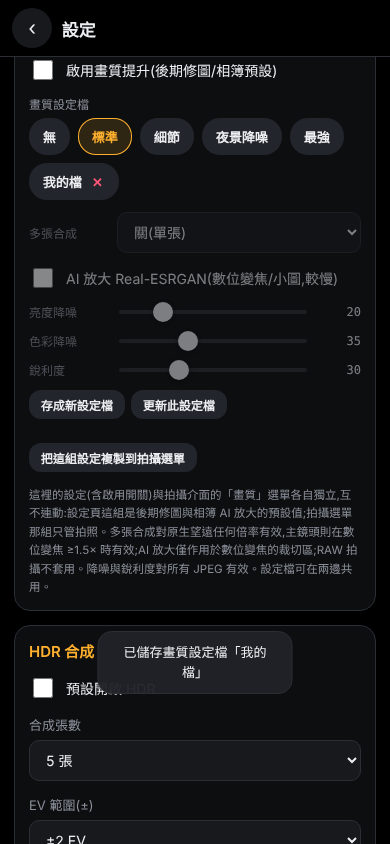
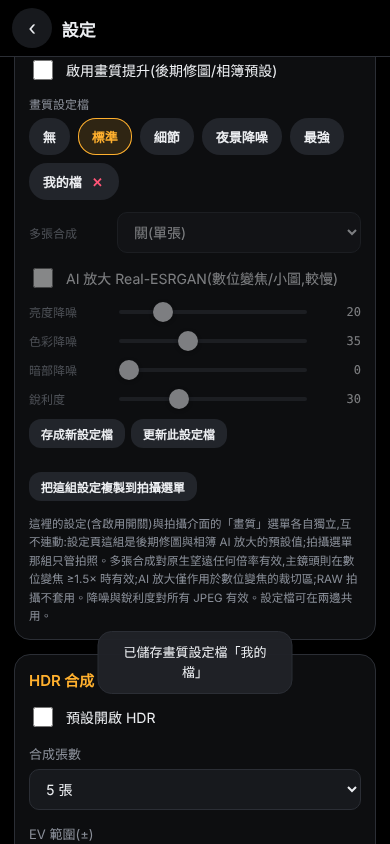
新增暗部降噪(亮度、色彩一起,只在暗部加強),夜景降噪設定檔套用
Claude-Session: https://claude.ai/code/session_016jd6xW3n2NEQN18hwjMf4T

diff --git a/www/js/enhance.js b/www/js/enhance.js
@@ -4,8 +4,8 @@
 const A = window.A;
 const $ = A.$;
 
-const KEYS = ['burst', 'nn', 'nnMix', 'dnL', 'dnC', 'sharp'];
-A.enhZero = () => ({ burst: 1, nn: false, nnMix: 40, dnL: 0, dnC: 0, sharp: 0 });
+const KEYS = ['burst', 'nn', 'nnMix', 'dnL', 'dnC', 'dnS', 'sharp'];
+A.enhZero = () => ({ burst: 1, nn: false, nnMix: 40, dnL: 0, dnC: 0, dnS: 0, sharp: 0 });
 A.cloneEnh = (e) => {
   const z = A.enhZero();
   const o = {};
@@ -17,7 +17,7 @@ A.ENH_BUILTIN = [
   { id: 'off', name: '無', builtin: true, enh: { burst: 1, nn: false, nnMix: 40, dnL: 0, dnC: 0, sharp: 0 } },
   { id: 'std', name: '標準', builtin: true, enh: { burst: 1, nn: false, nnMix: 40, dnL: 20, dnC: 35, sharp: 30 } },
   { id: 'detail', name: '細節', builtin: true, enh: { burst: 3, nn: false, nnMix: 40, dnL: 15, dnC: 35, sharp: 40 } },
-  { id: 'night', name: '夜景降噪', builtin: true, enh: { burst: 4, nn: false, nnMix: 40, dnL: 55, dnC: 70, sharp: 25 } },
+  { id: 'night', name: '夜景降噪', builtin: true, enh: { burst: 4, nn: false, nnMix: 40, dnL: 45, dnC: 70, dnS: 70, sharp: 25 } },
   { id: 'max', name: '最強', builtin: true, enh: { burst: 4, nn: true, nnMix: 40, dnL: 30, dnC: 50, sharp: 35 } },
 ];
 A.allEnhProfiles = () => A.ENH_BUILTIN.concat(A.settings.enhProfiles || []);
@@ -45,9 +45,9 @@ A.ensureEnhState();
 
 /** 實際生效的設定(未啟用 = 全部關閉) */
 A.enhEff = (s) => (s && s.on ? A.cloneEnh(s.enh) : A.enhZero());
-A.enhActive = (e) => e.burst > 1 || e.nn || e.dnL > 0 || e.dnC > 0 || e.sharp > 0;
+A.enhActive = (e) => e.burst > 1 || e.nn || e.dnL > 0 || e.dnC > 0 || e.dnS > 0 || e.sharp > 0;
 /** 轉成原生外掛參數 */
-A.enhArgs = (e) => ({ nn: !!e.nn, nnMix: e.nnMix / 100, dnLuma: e.dnL, dnChroma: e.dnC, sharpen: e.sharp });
+A.enhArgs = (e) => ({ nn: !!e.nn, nnMix: e.nnMix / 100, dnLuma: e.dnL, dnChroma: e.dnC, dnShadow: e.dnS, sharpen: e.sharp });
 A.enhSame = (a, b) => JSON.stringify(A.cloneEnh(a)) === JSON.stringify(A.cloneEnh(b));
 
 A.saveEnhProfile = (name, enh) => {
@@ -119,6 +119,7 @@ A.buildEnhPanel = (container, st, opts) => {
   }
   addSlider('dnL', '亮度降噪', 100);
   addSlider('dnC', '色彩降噪', 100);
+  addSlider('dnS', '暗部降噪', 100);
   addSlider('sharp', '銳利度', 100);
 
   const btns = document.createElement('div');
@@ -173,7 +174,7 @@ A.buildEnhPanel = (container, st, opts) => {
     onBox.checked = !!st.on;
     if (burstSel) burstSel.value = String(st.enh.burst);
     if (nnBox) { nnBox.checked = !!st.enh.nn; rows.nnMix.row.style.display = st.enh.nn ? 'flex' : 'none'; }
-    ['nnMix', 'dnL', 'dnC', 'sharp'].forEach((k) => {
+    ['nnMix', 'dnL', 'dnC', 'dnS', 'sharp'].forEach((k) => {
       const r = rows[k];
       if (!r) return;
       r.inp.value = st.enh[k];
@@ -221,9 +222,11 @@ A.initEnhUI = () => {
 /* ------------------------------------------------------------------ 預覽用降噪(修圖頁) */
 
 /** 與原生版相同概念的預覽實作:色彩低解析度模糊 + 亮度雙邊濾波。就地修改 RGBA data。 */
-A.denoiseRGBA = (data, w, h, luma, chroma) => {
+A.denoiseRGBA = (data, w, h, luma, chroma, shadow) => {
+  shadow = shadow || 0;
   const n = w * h;
-  if (chroma > 0) {
+  const dark = (y) => { const t = 1 - y / 96; return t <= 0 ? 0 : t * Math.sqrt(t); };
+  if (chroma > 0 || shadow > 0) {
     const cw = Math.ceil(w / 4), ch = Math.ceil(h / 4);
     let cb = new Float32Array(cw * ch), cr = new Float32Array(cw * ch);
     const cnt = new Float32Array(cw * ch);
@@ -235,7 +238,7 @@ A.denoiseRGBA = (data, w, h, luma, chroma) => {
       cnt[k]++;
     }
     for (let i = 0; i < cb.length; i++) { cb[i] /= cnt[i]; cr[i] /= cnt[i]; }
-    const rad = 1 + Math.round(chroma / 100 * 5);
+    const rad = 1 + Math.round(Math.max(chroma, shadow) / 100 * 5);
     const blur = (src) => {
       let t = new Float32Array(src.length), d = new Float32Array(src.length);
       for (let pass = 0; pass < 2; pass++) {
@@ -254,7 +257,7 @@ A.denoiseRGBA = (data, w, h, luma, chroma) => {
       return src;
     };
     cb = blur(cb); cr = blur(cr);
-    const a = Math.min(1, chroma / 100);
+    const a0 = Math.min(1, chroma / 100);
     for (let y = 0; y < h; y++) {
       const fy = A.clamp((y + 0.5) / 4 - 0.5, 0, ch - 1), y0 = fy | 0, y1 = Math.min(ch - 1, y0 + 1), wy = fy - y0;
       for (let x = 0; x < w; x++) {
@@ -264,6 +267,7 @@ A.denoiseRGBA = (data, w, h, luma, chroma) => {
         const r = data[j], g = data[j + 1], b = data[j + 2];
         const yy = 0.299 * r + 0.587 * g + 0.114 * b;
         const ocb = -0.168736 * r - 0.331264 * g + 0.5 * b, ocr = 0.5 * r - 0.418688 * g - 0.081312 * b;
+        const a = Math.min(1, a0 + shadow / 100 * dark(yy));
         const ncb = ocb + (s(cb) - ocb) * a, ncr = ocr + (s(cr) - ocr) * a;
         data[j] = A.clamp(Math.round(yy + 1.402 * ncr), 0, 255);
         data[j + 1] = A.clamp(Math.round(yy - 0.344136 * ncb - 0.714136 * ncr), 0, 255);
@@ -271,26 +275,32 @@ A.denoiseRGBA = (data, w, h, luma, chroma) => {
       }
     }
   }
-  if (luma > 0) {
+  if (luma > 0 || shadow > 0) {
     const yb0 = new Uint8Array(n);
     for (let i = 0, j = 0; i < n; i++, j += 4) yb0[i] = Math.round(0.299 * data[j] + 0.587 * data[j + 1] + 0.114 * data[j + 2]);
-    const R = n >= 6e6 ? 3 : 2, sigS = R === 3 ? 2.0 : 1.4, passes = luma > 55 ? 2 : 1;
+    const R = n >= 6e6 ? 3 : 2, sigS = R === 3 ? 2.0 : 1.4, passes = (luma + shadow) > 55 ? 2 : 1;
     const sw = [];
     for (let dy = -R; dy <= R; dy++) for (let dx = -R; dx <= R; dx++) sw.push(Math.exp(-(dx * dx + dy * dy) / (2 * sigS * sigS)));
     let cur = yb0;
     for (let pass = 0; pass < passes; pass++) {
-      const sigR = (5 + luma / 100 * 55) * (pass === 0 ? 1 : 0.7);
-      const lut = new Float32Array(256);
-      for (let d = 0; d < 256; d++) lut[d] = Math.exp(-(d * d) / (2 * sigR * sigR));
+      const pf = pass === 0 ? 1 : 0.7;
+      const lut = new Float32Array(256 * 256), skip = new Uint8Array(256);
+      for (let yv = 0; yv < 256; yv++) {
+        const eff = Math.min(100, luma + shadow * dark(yv));
+        skip[yv] = eff < 0.5 ? 1 : 0;
+        const sg = (5 + eff / 100 * 55) * pf;
+        for (let d = 0; d < 256; d++) lut[(yv << 8) + d] = Math.exp(-(d * d) / (2 * sg * sg));
+      }
       const dst = new Uint8Array(n);
       for (let y = 0; y < h; y++) for (let x = 0; x < w; x++) {
         const i = y * w + x, c0 = cur[i];
+        if (skip[c0]) { dst[i] = c0; continue; }
         let sum = 0, ws = 0, q = 0;
         for (let dy = -R; dy <= R; dy++) {
           const yy = Math.min(h - 1, Math.max(0, y + dy));
           for (let dx = -R; dx <= R; dx++, q++) {
             const xx = Math.min(w - 1, Math.max(0, x + dx)), v = cur[yy * w + xx];
-            const wt = sw[q] * lut[Math.abs(v - c0)];
+            const wt = sw[q] * lut[(c0 << 8) + Math.abs(v - c0)];
             sum += wt * v; ws += wt;
           }
         }

diff --git a/www/js/editor.js b/www/js/editor.js
@@ -57,8 +57,8 @@ const enhNow = () => A.enhEff(E.enhSt);
 /** 降噪後的底圖(有快取;參數變動時延遲重算,預覽為近似效果) */
 function dnBase() {
   const en = enhNow();
-  if (!(en.dnL > 0 || en.dnC > 0)) return E.base;
-  const key = en.dnL + '|' + en.dnC;
+  if (!(en.dnL > 0 || en.dnC > 0 || en.dnS > 0)) return E.base;
+  const key = en.dnL + '|' + en.dnC + '|' + en.dnS;
   if (E.dn && E.dnKey === key) return E.dn;
   return E.dn || E.base;
 }
@@ -67,11 +67,11 @@ function scheduleDn() {
   E.dnTimer = setTimeout(() => {
     if (!E.base) return;
     const en = enhNow();
-    if (en.dnL > 0 || en.dnC > 0) {
-      const key = en.dnL + '|' + en.dnC;
+    if (en.dnL > 0 || en.dnC > 0 || en.dnS > 0) {
+      const key = en.dnL + '|' + en.dnC + '|' + en.dnS;
       if (E.dnKey !== key) {
         const d = new ImageData(new Uint8ClampedArray(E.base.data), E.w, E.h);
-        A.denoiseRGBA(d.data, E.w, E.h, en.dnL, en.dnC);
+        A.denoiseRGBA(d.data, E.w, E.h, en.dnL, en.dnC, en.dnS);
         E.dn = d; E.dnKey = key;
       }
     }

diff --git a/android/app/src/main/java/com/kirishima/cameraapp/LookMath.java b/android/app/src/main/java/com/kirishima/cameraapp/LookMath.java
@@ -165,9 +165,18 @@ final class LookMath {
     }
 
     /** 降噪:luma/chroma 0..100。亮度用雙邊濾波(保邊),色彩用低解析度模糊後回填。 */
-    static void denoise(int[] px, int w, int h, float luma, float chroma) {
+    static void denoise(int[] px, int w, int h, float luma, float chroma) { denoise(px, w, h, luma, chroma, 0f); }
+
+    /** 暗部權重:亮度 <96 的區域才有,越暗越大(手機雜訊集中在暗部,且與訊號大小有關) */
+    static float darkness(float y) {
+        float t = 1f - y / 96f;
+        return t <= 0f ? 0f : t * (float) Math.sqrt(t);
+    }
+
+    /** shadow:額外針對暗部加強的降噪強度 0..100(亮度與色彩一起加強)。 */
+    static void denoise(int[] px, int w, int h, float luma, float chroma, final float shadow) {
         final int n = w * h;
-        if (chroma > 0f) {
+        if (chroma > 0f || shadow > 0f) {
             final int cw = (w + 3) / 4, ch = (h + 3) / 4;
             float[] cb = new float[cw * ch], cr = new float[cw * ch], cnt = new float[cw * ch];
             for (int y = 0; y < h; y++) {
@@ -182,7 +191,7 @@ final class LookMath {
                 }
             }
             for (int i = 0; i < cb.length; i++) { cb[i] /= cnt[i]; cr[i] /= cnt[i]; }
-            int rad = 1 + Math.round(chroma / 100f * 5f);
+            int rad = 1 + Math.round(Math.max(chroma, shadow) / 100f * 5f);
             float[] t = new float[cw * ch];
             double[] pre = new double[Math.max(cw, ch) + 1];
             float[] col = new float[cw];
@@ -190,7 +199,7 @@ final class LookMath {
                 boxH(cb, t, cw, ch, rad, pre); boxV(t, cb, cw, ch, rad, col);
                 boxH(cr, t, cw, ch, rad, pre); boxV(t, cr, cw, ch, rad, col);
             }
-            final float a = Math.min(1f, chroma / 100f);
+            final float a0 = Math.min(1f, chroma / 100f);
             final float[] fcb = cb, fcr = cr;
             final int fcw = cw, fch = ch;
             java.util.stream.IntStream.range(0, h).parallel().forEach(y -> {
@@ -210,6 +219,7 @@ final class LookMath {
                     float yy = 0.299f * r + 0.587f * g + 0.114f * b;
                     float ocb = -0.168736f * r - 0.331264f * g + 0.5f * b;
                     float ocr = 0.5f * r - 0.418688f * g - 0.081312f * b;
+                    float a = Math.min(1f, a0 + shadow / 100f * darkness(yy));
                     float ncb = ocb + (bcb - ocb) * a, ncr = ocr + (bcr - ocr) * a;
                     int nr = Math.min(255, Math.max(0, Math.round(yy + 1.402f * ncr)));
                     int ng = Math.min(255, Math.max(0, Math.round(yy - 0.344136f * ncb - 0.714136f * ncr)));
@@ -218,7 +228,7 @@ final class LookMath {
                 }
             });
         }
-        if (luma > 0f) {
+        if (luma > 0f || shadow > 0f) {
             final byte[] yb = new byte[n];
             for (int i = 0; i < n; i++) {
                 int c = px[i];
@@ -227,28 +237,35 @@ final class LookMath {
             // 手機雜訊多為數像素大的斑塊,需要較大視窗與較寬的亮度容忍度;強度高時做兩輪
             final int R = (long) n >= 6_000_000L ? 3 : 2;
             final float sigS = R == 3 ? 2.0f : 1.4f;
-            final int passes = luma > 55f ? 2 : 1;
+            final int passes = (luma + shadow) > 55f ? 2 : 1;
             final float[] sw = new float[(2 * R + 1) * (2 * R + 1)];
             for (int dy = -R; dy <= R; dy++) for (int dx = -R; dx <= R; dx++)
                 sw[(dy + R) * (2 * R + 1) + dx + R] = (float) Math.exp(-(dx * dx + dy * dy) / (2.0 * sigS * sigS));
             byte[] cur = yb;
             for (int pass = 0; pass < passes; pass++) {
                 final byte[] src = cur;
-                final float sigR = (5f + luma / 100f * 55f) * (pass == 0 ? 1f : 0.7f);
-                final float[] lut = new float[256];
-                for (int d = 0; d < 256; d++) lut[d] = (float) Math.exp(-(d * d) / (2.0 * sigR * sigR));
+                final float pf = pass == 0 ? 1f : 0.7f;
+                final float[] lut = new float[256 * 256];     // [中心亮度][亮度差];暗處的容忍度更大
+                final boolean[] skip = new boolean[256];
+                for (int yv = 0; yv < 256; yv++) {
+                    float eff = Math.min(100f, luma + shadow * darkness(yv));
+                    skip[yv] = eff < 0.5f;
+                    float sg = (5f + eff / 100f * 55f) * pf;
+                    for (int d = 0; d < 256; d++) lut[(yv << 8) + d] = (float) Math.exp(-(d * d) / (2.0 * sg * sg));
+                }
                 final byte[] dst = new byte[n];
                 java.util.stream.IntStream.range(0, h).parallel().forEach(y -> {
                     for (int x = 0; x < w; x++) {
                         int i = y * w + x;
                         int c0 = src[i] & 255;
+                        if (skip[c0]) { dst[i] = (byte) c0; continue; }
                         float sum = 0f, ws = 0f;
                         for (int dy = -R; dy <= R; dy++) {
                             int yy = Math.min(h - 1, Math.max(0, y + dy));
                             for (int dx = -R; dx <= R; dx++) {
                                 int xx = Math.min(w - 1, Math.max(0, x + dx));
                                 int v = src[yy * w + xx] & 255;
-                                float wt = sw[(dy + R) * (2 * R + 1) + dx + R] * lut[Math.abs(v - c0)];
+                                float wt = sw[(dy + R) * (2 * R + 1) + dx + R] * lut[(c0 << 8) + Math.abs(v - c0)];
                                 sum += wt * v;
                                 ws += wt;
                             }

diff --git a/android/app/src/main/java/com/kirishima/cameraapp/CameraToolsPlugin.java b/android/app/src/main/java/com/kirishima/cameraapp/CameraToolsPlugin.java
@@ -493,27 +493,28 @@ public class CameraToolsPlugin extends Plugin {
     private volatile boolean nnFlag;
     private volatile float nnMix = 0.4f;
     private int jobSeq = 0;
-    private volatile float dnLuma, dnChroma, sharpAmt;
+    private volatile float dnLuma, dnChroma, dnShadow, sharpAmt;
 
     private void readEnh(PluginCall call) {
         nnFlag = Boolean.TRUE.equals(call.getBoolean("nn", false));
         nnMix = Math.max(0f, Math.min(1f, call.getFloat("nnMix", 0.4f)));
         dnLuma = Math.max(0f, Math.min(100f, call.getFloat("dnLuma", 0f)));
         dnChroma = Math.max(0f, Math.min(100f, call.getFloat("dnChroma", 0f)));
+        dnShadow = Math.max(0f, Math.min(100f, call.getFloat("dnShadow", 0f)));
         sharpAmt = Math.max(0f, Math.min(100f, call.getFloat("sharpen", 0f)));
     }
 
-    private boolean enhPixelActive() { return dnLuma > 0f || dnChroma > 0f || sharpAmt > 0f; }
+    private boolean enhPixelActive() { return dnShadow > 0f || dnLuma > 0f || dnChroma > 0f || sharpAmt > 0f; }
 
     /** 降噪(在放大前,雜訊尚未被放大)。回傳可變 bitmap。 */
     private Bitmap enhDenoise(Bitmap bmp) {
-        if (dnLuma <= 0f && dnChroma <= 0f) return bmp;
+        if (dnLuma <= 0f && dnChroma <= 0f && dnShadow <= 0f) return bmp;
         int w = bmp.getWidth(), h = bmp.getHeight();
         if ((long) w * h > 40_000_000L) { progress("影像超過 40MP,略過降噪"); return bmp; }
         progress("降噪");
         int[] px = new int[w * h];
         bmp.getPixels(px, 0, w, 0, 0, w, h);
-        LookMath.denoise(px, w, h, dnLuma, dnChroma);
+        LookMath.denoise(px, w, h, dnLuma, dnChroma, dnShadow);
         bmp = ensureMutable(bmp);
         bmp.setPixels(px, 0, w, 0, 0, w, h);
         return bmp;
@@ -790,6 +791,7 @@ public class CameraToolsPlugin extends Plugin {
         final float dL = Math.max(0f, Math.min(100f, call.getFloat("dnLuma", 0f)));
         final float dC = Math.max(0f, Math.min(100f, call.getFloat("dnChroma", 0f)));
         final float sh = Math.max(0f, Math.min(100f, call.getFloat("sharpen", 0f)));
+        final float dS = Math.max(0f, Math.min(100f, call.getFloat("dnShadow", 0f)));
         final boolean auto = Boolean.TRUE.equals(call.getBoolean("auto", false));
         final int jobId = ++jobSeq;
         capExec.execute(() -> {
@@ -826,7 +828,7 @@ public class CameraToolsPlugin extends Plugin {
                     try {
                         mirrorFlag = mirror;
                         targetMpFlag = zoomOutMp;
-                        nnFlag = nnF; nnMix = nnM; dnLuma = dL; dnChroma = dC; sharpAmt = sh;
+                        nnFlag = nnF; nnMix = nnM; dnLuma = dL; dnChroma = dC; dnShadow = dS; sharpAmt = sh;
                         progress("處理 JPEG");
                         int orientation = orientationOf(new ByteArrayInputStream(s.jpeg));
                         if (s.yuv) {
